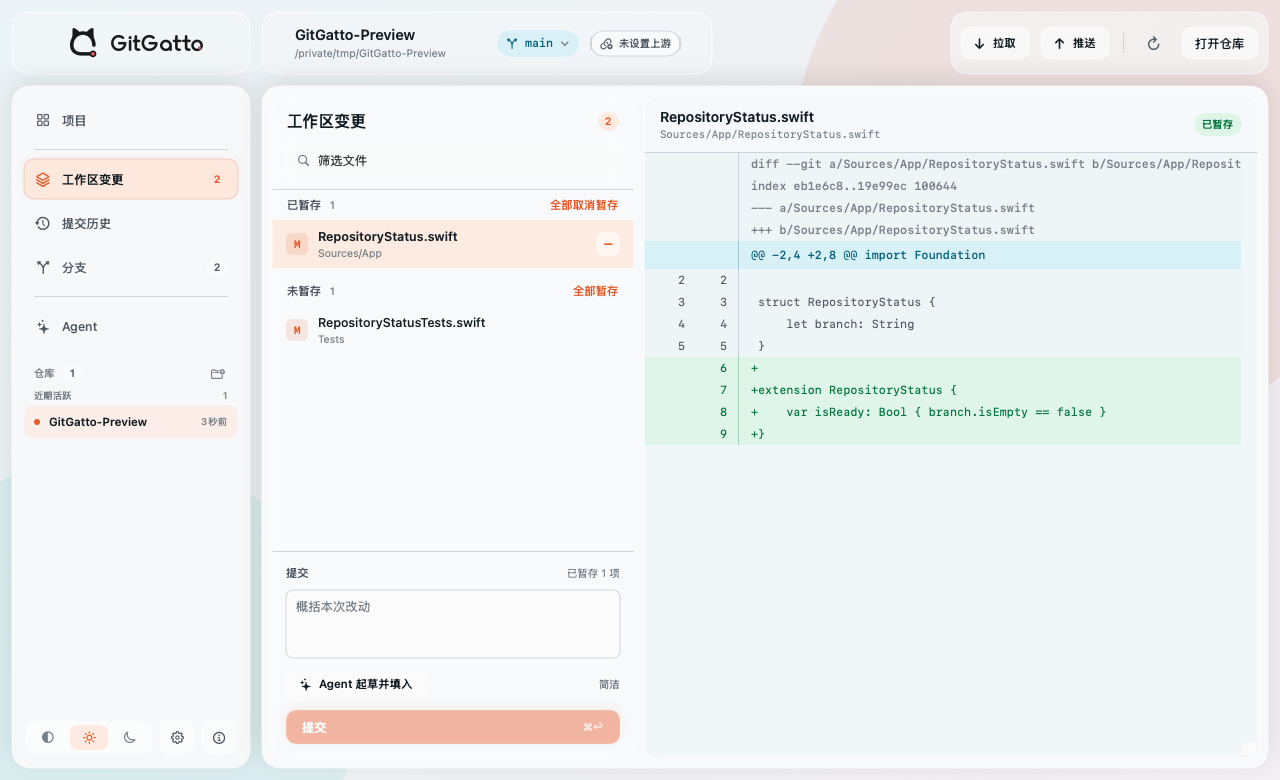
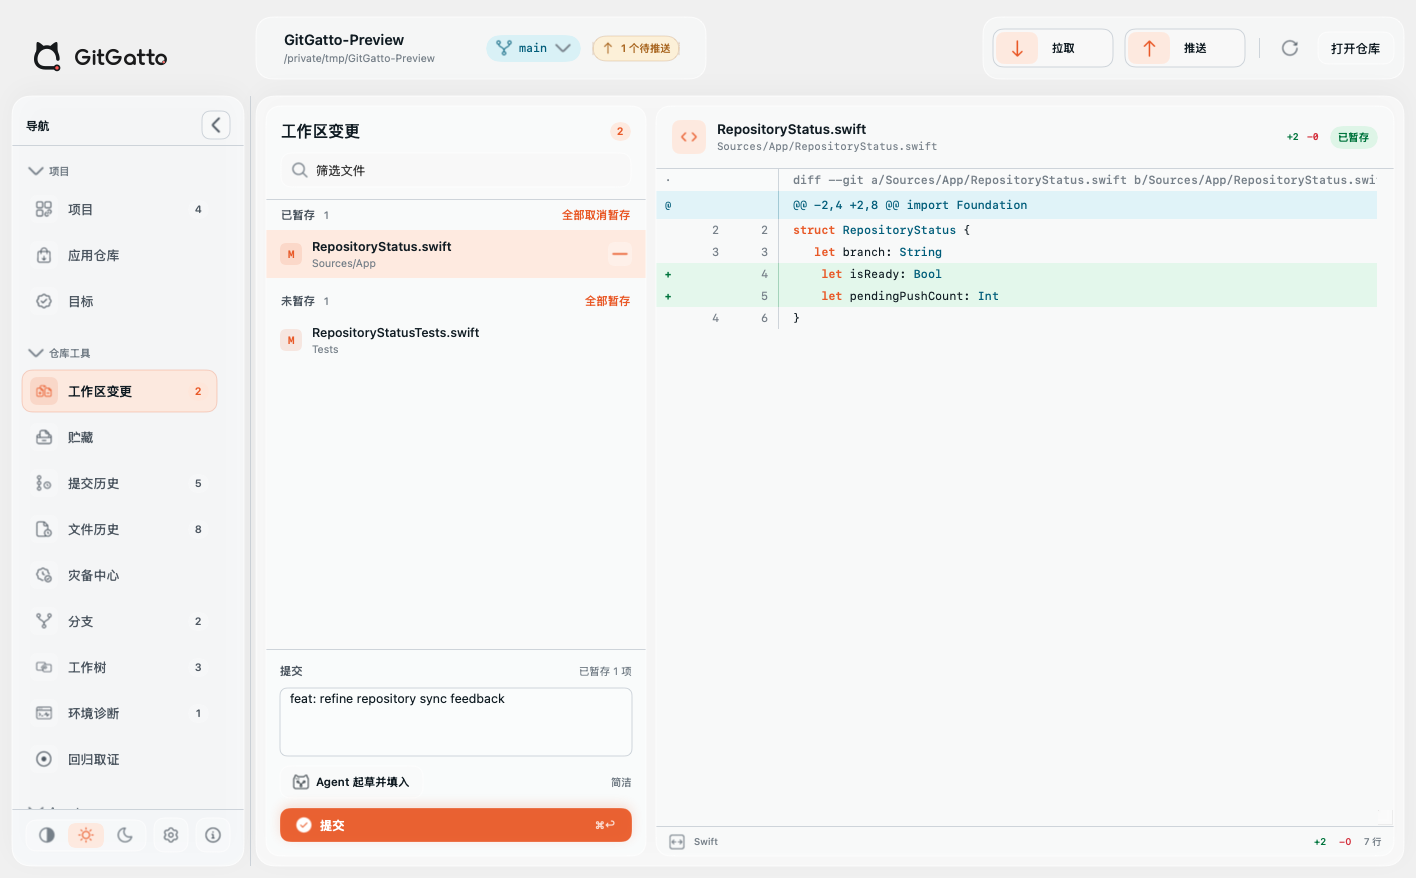
docs: 更新 GitHub 展示截图

diff --git a/README.ru.md b/README.ru.md
@@ -23,7 +23,16 @@
 
 <p align="center"><a href="https://gatto.zijiu522.cn">Сайт</a> · <a href="https://github.com/Lincb522/GitGatto/releases/latest">Скачать</a> · <a href="CHANGELOG.md">История версий</a> · <a href="https://github.com/Lincb522/GitGatto/issues">Issues</a></p>
 
-![Рабочее пространство GitGatto](docs/media/workspace.png)
+<table>
+  <tr>
+    <td width="50%" align="center"><img src="docs/media/github-project.png" alt="Проект GitHub"><br><sub><b>Проект GitHub</b></sub></td>
+    <td width="50%" align="center"><img src="docs/media/workspace.png" alt="Рабочее дерево и diff"><br><sub><b>Рабочее дерево и diff</b></sub></td>
+  </tr>
+  <tr>
+    <td width="50%" align="center"><img src="docs/media/recovery-center.png" alt="Центр восстановления"><br><sub><b>Центр восстановления</b></sub></td>
+    <td width="50%" align="center"><img src="docs/media/file-history-dark.png" alt="История файлов в тёмной теме"><br><sub><b>История файлов в тёмной теме</b></sub></td>
+  </tr>
+</table>
 
 GitGatto — нативный клиент Git и GitHub для macOS. Состояние репозитория берётся из системного Git, удалённые операции выполняются через GitHub CLI, а Agents используют уже установленные и авторизованные CLI. Приложение собирает их состояния, шаги и результаты в одном представлении проекта.
 

diff --git a/README.ar.md b/README.ar.md
@@ -23,7 +23,16 @@
 
 <p align="center"><a href="https://gatto.zijiu522.cn">الموقع</a> · <a href="https://github.com/Lincb522/GitGatto/releases/latest">التنزيل</a> · <a href="CHANGELOG.md">سجل الإصدارات</a> · <a href="https://github.com/Lincb522/GitGatto/issues">Issues</a></p>
 
-![مساحة عمل GitGatto](docs/media/workspace.png)
+<table>
+  <tr>
+    <td width="50%" align="center"><img src="docs/media/github-project.png" alt="مشروع GitHub"><br><sub><b>مشروع GitHub</b></sub></td>
+    <td width="50%" align="center"><img src="docs/media/workspace.png" alt="شجرة العمل والفروقات"><br><sub><b>شجرة العمل والفروقات</b></sub></td>
+  </tr>
+  <tr>
+    <td width="50%" align="center"><img src="docs/media/recovery-center.png" alt="مركز الاستعادة"><br><sub><b>مركز الاستعادة</b></sub></td>
+    <td width="50%" align="center"><img src="docs/media/file-history-dark.png" alt="سجل الملفات في الوضع الداكن"><br><sub><b>سجل الملفات في الوضع الداكن</b></sub></td>
+  </tr>
+</table>
 
 GitGatto عميل أصلي لـ Git وGitHub على macOS. يقرأ حالة المستودع من Git المثبت في النظام، وينفذ العمليات البعيدة عبر GitHub CLI، ويستخدم Agents أدوات CLI المثبتة والمسجل الدخول إليها على الـ Mac. يجمع التطبيق حالاتها وخطواتها ونتائجها في شاشة مشروع واحدة.
 

diff --git a/README.fr.md b/README.fr.md
@@ -23,7 +23,16 @@
 
 <p align="center"><a href="https://gatto.zijiu522.cn">Site web</a> · <a href="https://github.com/Lincb522/GitGatto/releases/latest">Télécharger</a> · <a href="CHANGELOG.md">Journal des versions</a> · <a href="https://github.com/Lincb522/GitGatto/issues">Issues</a></p>
 
-![Espace de travail GitGatto](docs/media/workspace.png)
+<table>
+  <tr>
+    <td width="50%" align="center"><img src="docs/media/github-project.png" alt="Projet GitHub"><br><sub><b>Projet GitHub</b></sub></td>
+    <td width="50%" align="center"><img src="docs/media/workspace.png" alt="Arbre de travail et diff"><br><sub><b>Arbre de travail et diff</b></sub></td>
+  </tr>
+  <tr>
+    <td width="50%" align="center"><img src="docs/media/recovery-center.png" alt="Centre de récupération"><br><sub><b>Centre de récupération</b></sub></td>
+    <td width="50%" align="center"><img src="docs/media/file-history-dark.png" alt="Historique des fichiers en mode sombre"><br><sub><b>Historique des fichiers en mode sombre</b></sub></td>
+  </tr>
+</table>
 
 GitGatto est un client Git et GitHub natif pour macOS. L'état des dépôts vient du Git système, les opérations distantes utilisent GitHub CLI et les Agents s'appuient sur les CLI déjà installées et connectées sur le Mac. GitGatto réunit leurs états, leurs étapes et leurs résultats dans une seule vue de projet.
 

diff --git a/README.es.md b/README.es.md
@@ -23,7 +23,16 @@
 
 <p align="center"><a href="https://gatto.zijiu522.cn">Sitio web</a> · <a href="https://github.com/Lincb522/GitGatto/releases/latest">Descargar</a> · <a href="CHANGELOG.md">Historial de cambios</a> · <a href="https://github.com/Lincb522/GitGatto/issues">Issues</a></p>
 
-![Área de trabajo de GitGatto](docs/media/workspace.png)
+<table>
+  <tr>
+    <td width="50%" align="center"><img src="docs/media/github-project.png" alt="Proyecto de GitHub"><br><sub><b>Proyecto de GitHub</b></sub></td>
+    <td width="50%" align="center"><img src="docs/media/workspace.png" alt="Árbol de trabajo y diff"><br><sub><b>Árbol de trabajo y diff</b></sub></td>
+  </tr>
+  <tr>
+    <td width="50%" align="center"><img src="docs/media/recovery-center.png" alt="Centro de recuperación"><br><sub><b>Centro de recuperación</b></sub></td>
+    <td width="50%" align="center"><img src="docs/media/file-history-dark.png" alt="Historial de archivos en modo oscuro"><br><sub><b>Historial de archivos en modo oscuro</b></sub></td>
+  </tr>
+</table>
 
 GitGatto es un cliente nativo de Git y GitHub para macOS. El estado de los repositorios procede del Git del sistema, las operaciones remotas usan GitHub CLI y los Agents trabajan con las CLI ya instaladas y autenticadas en el Mac. GitGatto reúne sus estados, pasos y resultados en una sola vista de proyecto.
 

diff --git a/README.pt-BR.md b/README.pt-BR.md
@@ -23,7 +23,16 @@
 
 <p align="center"><a href="https://gatto.zijiu522.cn">Site</a> · <a href="https://github.com/Lincb522/GitGatto/releases/latest">Baixar</a> · <a href="CHANGELOG.md">Histórico</a> · <a href="https://github.com/Lincb522/GitGatto/issues">Issues</a></p>
 
-![Área de trabalho do GitGatto](docs/media/workspace.png)
+<table>
+  <tr>
+    <td width="50%" align="center"><img src="docs/media/github-project.png" alt="Projeto no GitHub"><br><sub><b>Projeto no GitHub</b></sub></td>
+    <td width="50%" align="center"><img src="docs/media/workspace.png" alt="Árvore de trabalho e diff"><br><sub><b>Árvore de trabalho e diff</b></sub></td>
+  </tr>
+  <tr>
+    <td width="50%" align="center"><img src="docs/media/recovery-center.png" alt="Central de recuperação"><br><sub><b>Central de recuperação</b></sub></td>
+    <td width="50%" align="center"><img src="docs/media/file-history-dark.png" alt="Histórico de arquivos no modo escuro"><br><sub><b>Histórico de arquivos no modo escuro</b></sub></td>
+  </tr>
+</table>
 
 GitGatto é um cliente nativo de Git e GitHub para macOS. O estado dos repositórios vem do Git do sistema, as operações remotas usam o GitHub CLI e os Agents usam CLIs já instaladas e autenticadas no Mac. O aplicativo reúne seus estados, etapas e resultados em uma única visão do projeto.
 

diff --git a/README.de.md b/README.de.md
@@ -23,7 +23,16 @@
 
 <p align="center"><a href="https://gatto.zijiu522.cn">Website</a> · <a href="https://github.com/Lincb522/GitGatto/releases/latest">Download</a> · <a href="CHANGELOG.md">Änderungsprotokoll</a> · <a href="https://github.com/Lincb522/GitGatto/issues">Issues</a></p>
 
-![GitGatto-Arbeitsbereich](docs/media/workspace.png)
+<table>
+  <tr>
+    <td width="50%" align="center"><img src="docs/media/github-project.png" alt="GitHub-Projekt"><br><sub><b>GitHub-Projekt</b></sub></td>
+    <td width="50%" align="center"><img src="docs/media/workspace.png" alt="Arbeitsbaum und Diff"><br><sub><b>Arbeitsbaum und Diff</b></sub></td>
+  </tr>
+  <tr>
+    <td width="50%" align="center"><img src="docs/media/recovery-center.png" alt="Wiederherstellungszentrale"><br><sub><b>Wiederherstellungszentrale</b></sub></td>
+    <td width="50%" align="center"><img src="docs/media/file-history-dark.png" alt="Dateiverlauf im Dunkelmodus"><br><sub><b>Dateiverlauf im Dunkelmodus</b></sub></td>
+  </tr>
+</table>
 
 GitGatto ist ein nativer Git- und GitHub-Client für macOS. Der Repository-Status kommt vom Git des Systems, Remote-Aktionen laufen über die GitHub CLI und Agents verwenden bereits installierte und angemeldete CLI-Werkzeuge. GitGatto führt deren Status, Schritte und Ergebnisse in einer Projektansicht zusammen.
 

diff --git a/README.ja.md b/README.ja.md
@@ -41,7 +41,16 @@
   <a href="https://github.com/Lincb522/GitGatto/issues">Issues</a>
 </p>
 
-![GitGatto ワークスペース](docs/media/workspace.png)
+<table>
+  <tr>
+    <td width="50%" align="center"><img src="docs/media/github-project.png" alt="GitHub プロジェクト"><br><sub><b>GitHub プロジェクト</b></sub></td>
+    <td width="50%" align="center"><img src="docs/media/workspace.png" alt="ワークツリーと Diff"><br><sub><b>ワークツリーと Diff</b></sub></td>
+  </tr>
+  <tr>
+    <td width="50%" align="center"><img src="docs/media/recovery-center.png" alt="リカバリーセンター"><br><sub><b>リカバリーセンター</b></sub></td>
+    <td width="50%" align="center"><img src="docs/media/file-history-dark.png" alt="ダークモードのファイル履歴"><br><sub><b>ダークモードのファイル履歴</b></sub></td>
+  </tr>
+</table>
 
 GitGatto は macOS 向けのネイティブ Git／GitHub クライアントです。リポジトリの状態はシステムの Git から取得し、リモート操作には GitHub CLI、Agent には Mac にインストール済みでログイン済みの CLI を使います。それぞれの状態、手順、結果を一つのプロジェクト画面にまとめます。
 

diff --git a/README.ko.md b/README.ko.md
@@ -41,7 +41,16 @@
   <a href="https://github.com/Lincb522/GitGatto/issues">Issues</a>
 </p>
 
-![GitGatto 작업 공간](docs/media/workspace.png)
+<table>
+  <tr>
+    <td width="50%" align="center"><img src="docs/media/github-project.png" alt="GitHub 프로젝트"><br><sub><b>GitHub 프로젝트</b></sub></td>
+    <td width="50%" align="center"><img src="docs/media/workspace.png" alt="작업 트리와 Diff"><br><sub><b>작업 트리와 Diff</b></sub></td>
+  </tr>
+  <tr>
+    <td width="50%" align="center"><img src="docs/media/recovery-center.png" alt="재해 복구 센터"><br><sub><b>재해 복구 센터</b></sub></td>
+    <td width="50%" align="center"><img src="docs/media/file-history-dark.png" alt="다크 모드 파일 기록"><br><sub><b>다크 모드 파일 기록</b></sub></td>
+  </tr>
+</table>
 
 GitGatto는 macOS용 네이티브 Git 및 GitHub 클라이언트입니다. 저장소 상태는 시스템 Git에서 읽고, 원격 작업은 GitHub CLI를 사용하며, Agent는 Mac에 이미 설치되고 로그인된 CLI를 사용합니다. 각 도구의 상태, 단계, 결과를 하나의 프로젝트 화면에 모읍니다.
 

diff --git a/README.en.md b/README.en.md
@@ -41,7 +41,16 @@
   <a href="https://github.com/Lincb522/GitGatto/issues">Issues</a>
 </p>
 
-![GitGatto workspace](docs/media/workspace.png)
+<table>
+  <tr>
+    <td width="50%" align="center"><img src="docs/media/github-project.png" alt="GitHub project"><br><sub><b>GitHub project</b></sub></td>
+    <td width="50%" align="center"><img src="docs/media/workspace.png" alt="Working tree and diff"><br><sub><b>Working tree and diff</b></sub></td>
+  </tr>
+  <tr>
+    <td width="50%" align="center"><img src="docs/media/recovery-center.png" alt="Recovery Center"><br><sub><b>Recovery Center</b></sub></td>
+    <td width="50%" align="center"><img src="docs/media/file-history-dark.png" alt="File history in dark mode"><br><sub><b>File history in dark mode</b></sub></td>
+  </tr>
+</table>
 
 GitGatto is a native Git and GitHub client for macOS. Repository state comes from the system Git, remote operations use GitHub CLI, and Agents use CLI tools already installed and signed in on the Mac. GitGatto brings their state, steps, and results into one project view.
 

diff --git a/README.zh-Hant.md b/README.zh-Hant.md
@@ -41,7 +41,16 @@
   <a href="https://github.com/Lincb522/GitGatto/issues">Issues</a>
 </p>
 
-![GitGatto 工作區](docs/media/workspace.png)
+<table>
+  <tr>
+    <td width="50%" align="center"><img src="docs/media/github-project.png" alt="GitHub 專案"><br><sub><b>GitHub 專案</b></sub></td>
+    <td width="50%" align="center"><img src="docs/media/workspace.png" alt="工作區與 Diff"><br><sub><b>工作區與 Diff</b></sub></td>
+  </tr>
+  <tr>
+    <td width="50%" align="center"><img src="docs/media/recovery-center.png" alt="災備中心"><br><sub><b>災備中心</b></sub></td>
+    <td width="50%" align="center"><img src="docs/media/file-history-dark.png" alt="深色檔案歷史"><br><sub><b>深色檔案歷史</b></sub></td>
+  </tr>
+</table>
 
 GitGatto 是面向 macOS 的原生 Git 與 GitHub 用戶端。儲存庫狀態來自系統 Git，遠端操作使用 GitHub CLI，Agent 使用 Mac 上已安裝並登入的 CLI；應用程式把分散的狀態、步驟與結果放回同一個專案畫面。
 

diff --git a/README.md b/README.md
@@ -41,7 +41,16 @@
   <a href="https://github.com/Lincb522/GitGatto/issues">Issues</a>
 </p>
 
-![GitGatto 工作区](docs/media/workspace.png)
+<table>
+  <tr>
+    <td width="50%" align="center"><img src="docs/media/github-project.png" alt="GitHub 项目"><br><sub><b>GitHub 项目</b></sub></td>
+    <td width="50%" align="center"><img src="docs/media/workspace.png" alt="工作区与 Diff"><br><sub><b>工作区与 Diff</b></sub></td>
+  </tr>
+  <tr>
+    <td width="50%" align="center"><img src="docs/media/recovery-center.png" alt="灾备中心"><br><sub><b>灾备中心</b></sub></td>
+    <td width="50%" align="center"><img src="docs/media/file-history-dark.png" alt="深色文件历史"><br><sub><b>深色文件历史</b></sub></td>
+  </tr>
+</table>
 
 GitGatto 是面向 macOS 的原生 Git 与 GitHub 客户端。仓库状态来自系统 Git，远端操作使用 GitHub CLI，Agent 使用本机已经安装并登录的 CLI；应用负责把分散的状态、步骤和结果放回同一个项目界面。
 

diff --git a/docs/DOCUMENTATION.md b/docs/DOCUMENTATION.md
@@ -24,6 +24,7 @@
 - README 的事实变化：同步检查 `README.*.md`，并保留各语言之间可直接切换的入口。
 - CHANGELOG 增加带日期的版本标题：运行 `./scripts/generate-update-curve.py`，同步检查更新曲线和版本表格。
 - 路线或架构边界变化：更新对应文档和 `scripts/generate-document-diagrams.py`，运行脚本重新生成文档内嵌 SVG。
+- 主界面或 README 展示的功能变化：运行 `./scripts/capture-readme-screenshots.sh`，检查浅色工作区、GitHub 项目、灾备中心和深色文件历史四张截图。
 - 依赖、签名、版本或发布流程变化：更新 `docs/RELEASING.md` 和第三方许可。
 - 数据发送、保存或删除方式变化：复核隐私政策、用户协议和免责声明。
 - 所有 Markdown 链接必须可解析；示例命令至少完成语法检查。
